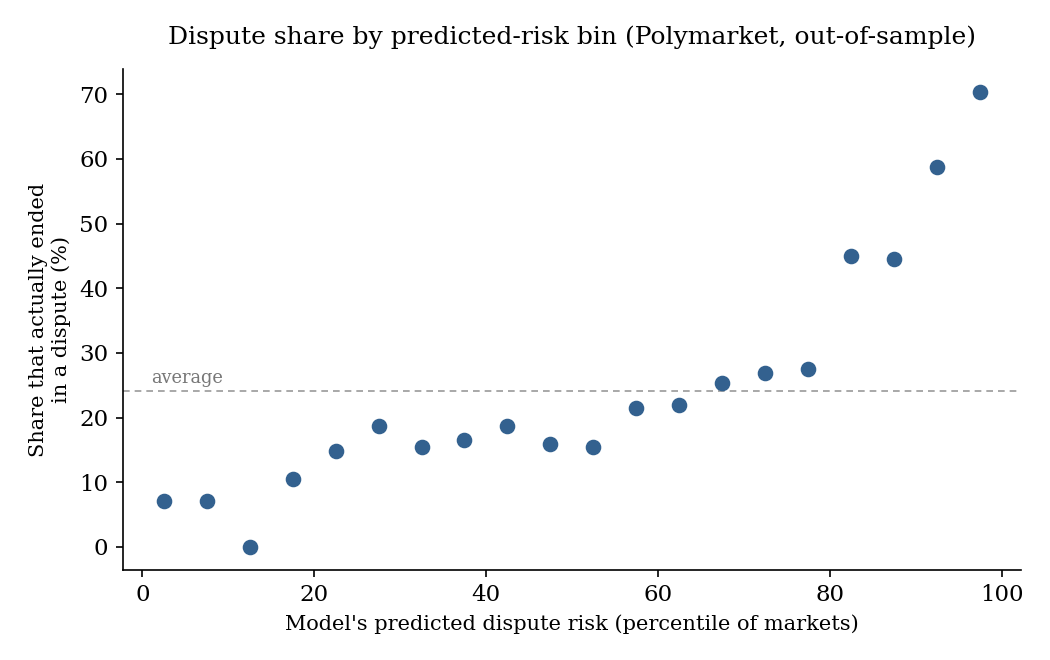
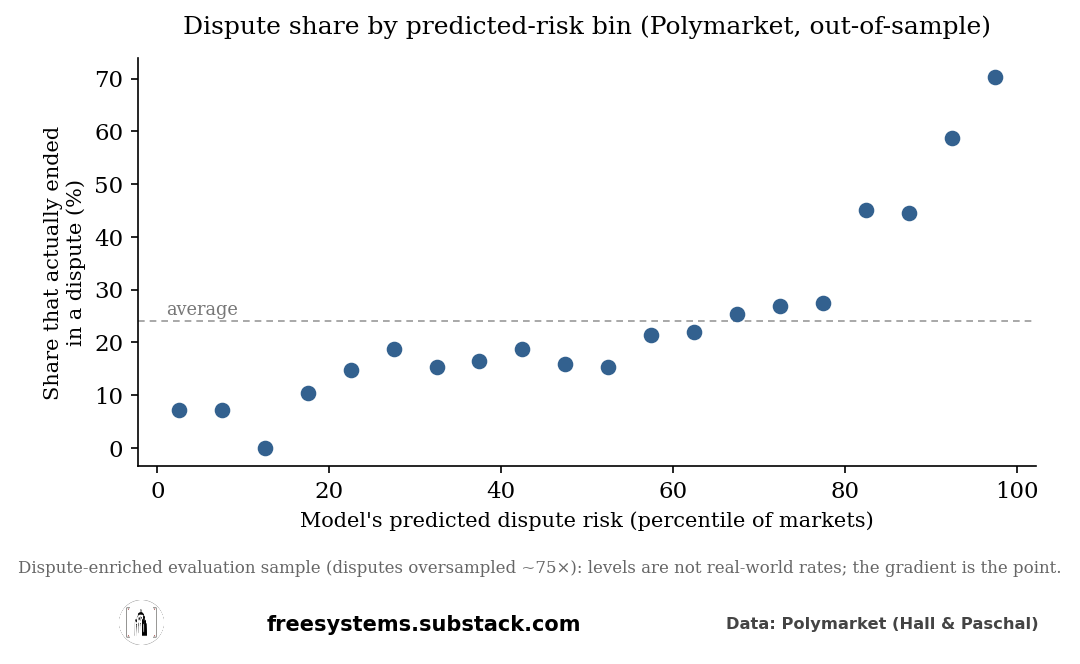
Free Systems footer + oversampling note on the 20-bin binscatter
Polymarket-only credit; gray note flags the dispute-enriched sample.

diff --git a/substack/figs/binscatter.py b/substack/figs/binscatter.py
@@ -54,7 +54,13 @@ with plt.rc_context({"font.family":"serif","font.size":11}):
     ax.text(1, 100*y.mean()+1.2, "average", fontsize=8.5, color="#777")
     ax.set_title("Dispute share by predicted-risk bin (Polymarket, out-of-sample)",
                  fontsize=12, pad=12)
-    fig.tight_layout()
-    fig.savefig("/Users/andrewhall/event_contracts/substack/figs/fig2_binscatter.png", dpi=150)
+    from fs_style import add_footer
+    fig.tight_layout(rect=(0, 0.14, 1, 1))
+    fig.text(0.5, 0.115, "Dispute-enriched evaluation sample (disputes oversampled ~75×): "
+             "levels are not real-world rates; the gradient is the point.",
+             ha="center", fontsize=8, color="#666666")
+    add_footer(fig, credit="Data: Polymarket (Hall & Paschal)")
+    fig.savefig("/Users/andrewhall/event_contracts/substack/figs/fig2_binscatter.png", dpi=150,
+                bbox_inches="tight", facecolor="white")
 print("bins (x%, dispute%):", [f"{x:.0f}:{v:.0f}" for x,v in zip(xs,ys)])
 print("n =", len(pm_spec), "positives =", int(y.sum()))
